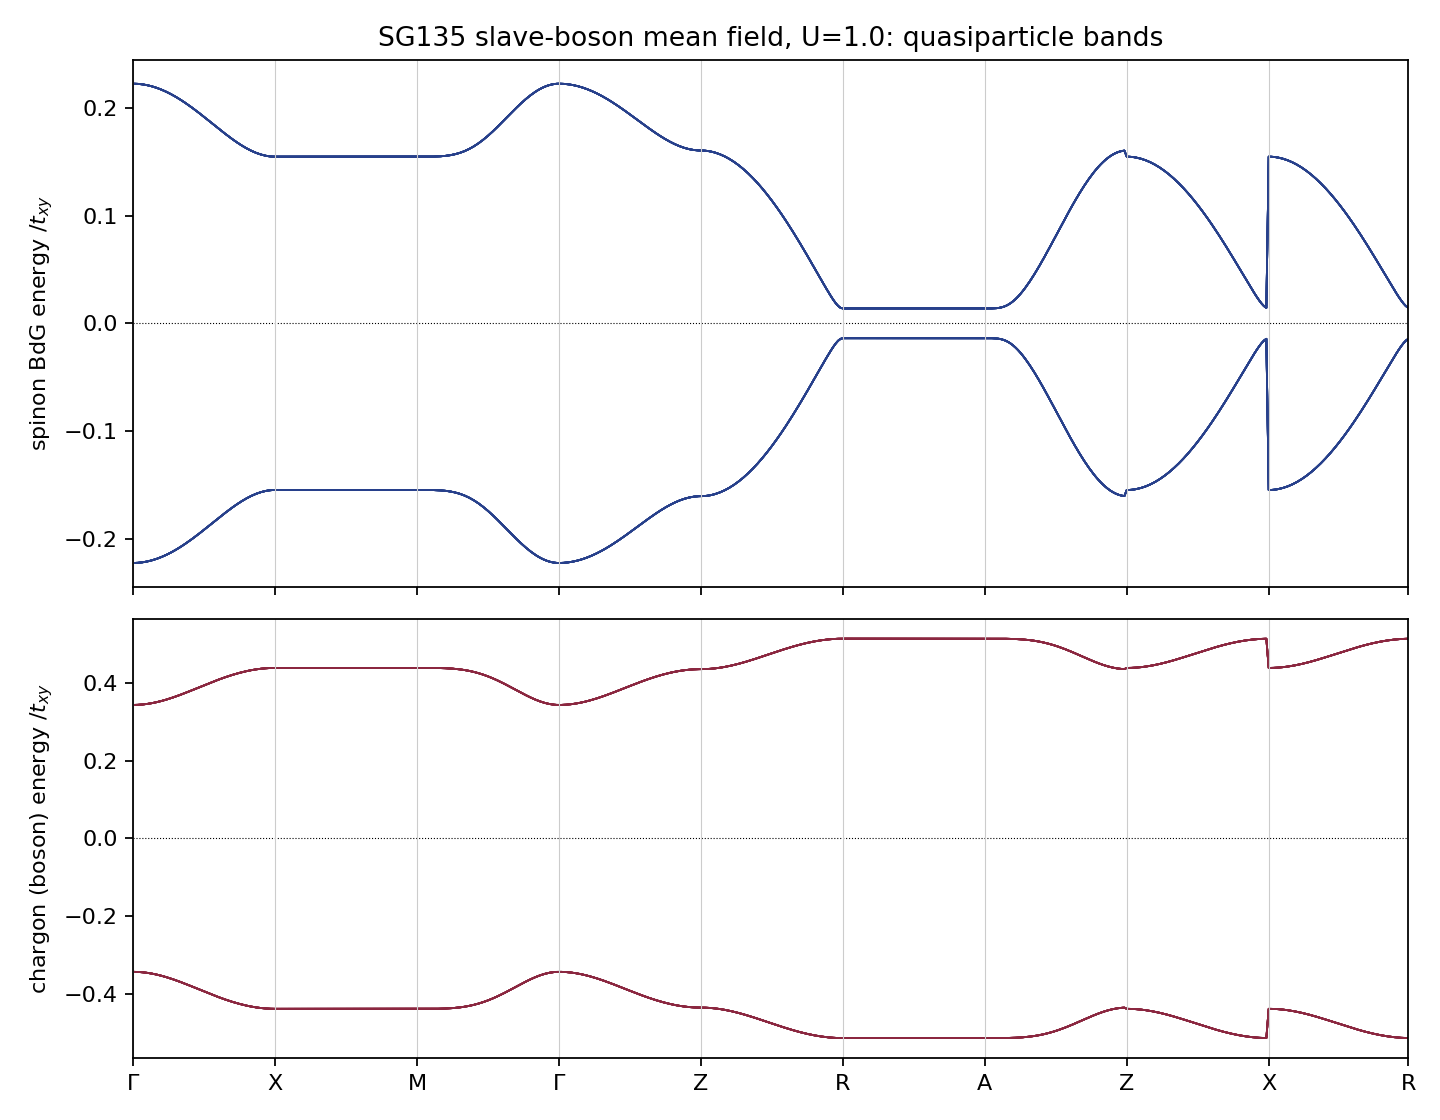
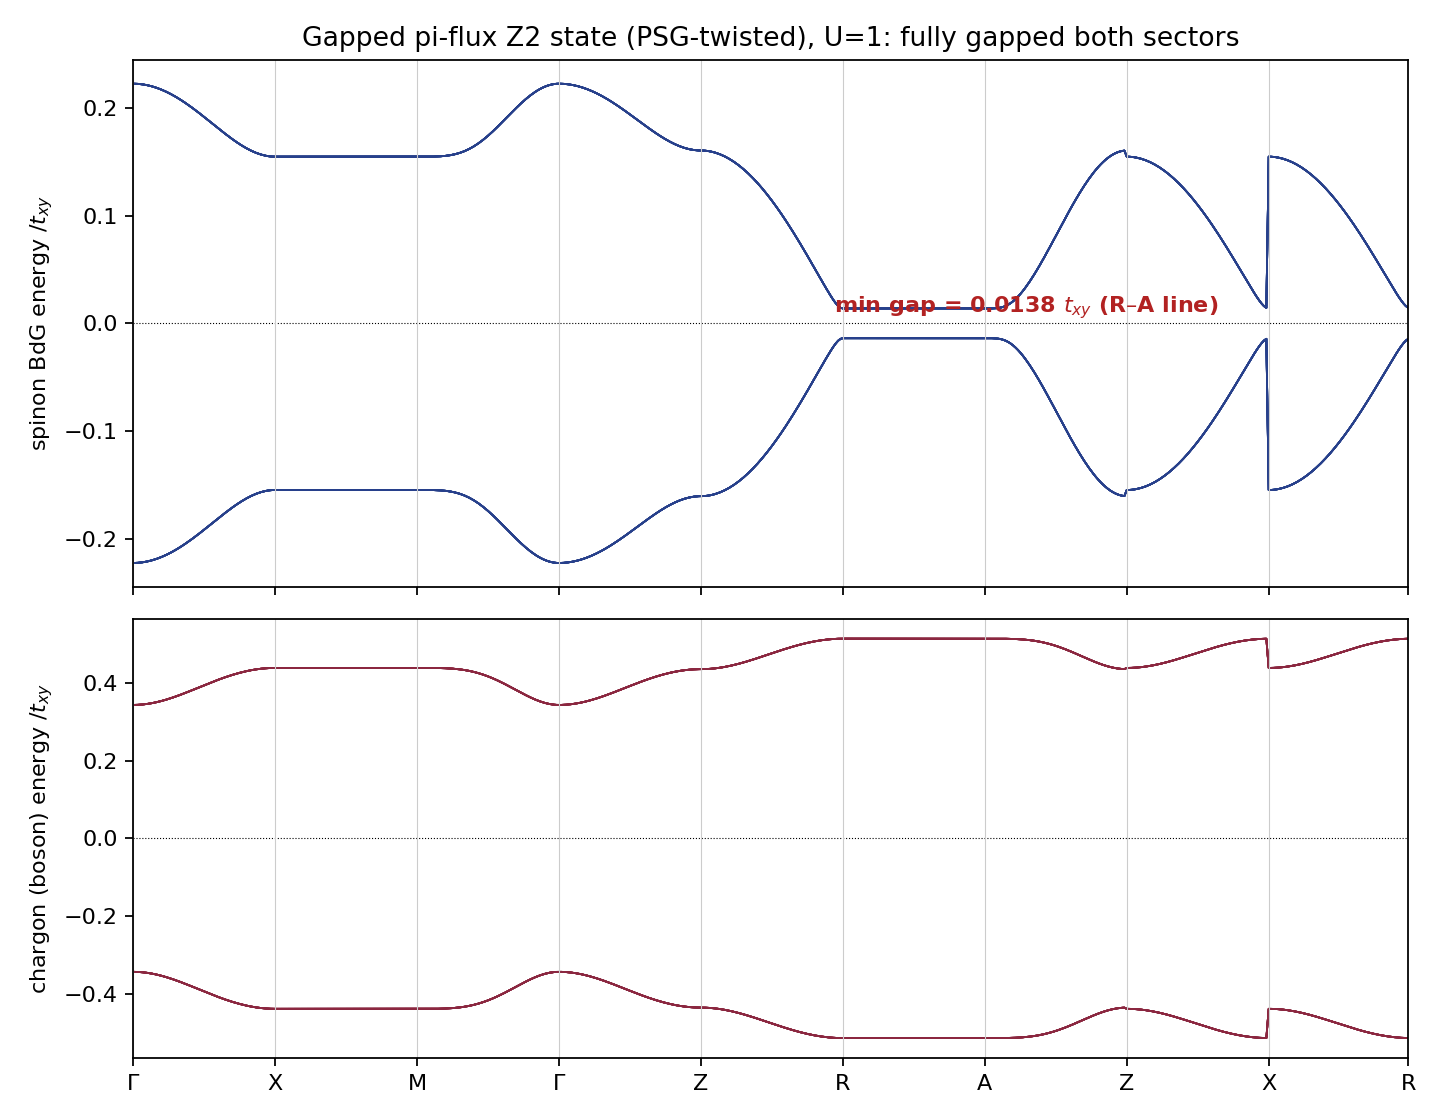
Annotated band figures, nk-convergence in claims, archived verification record

Changed region(s): [[0.2188, 0.0, 0.8438, 0.0625], [0.5625, 0.25, 0.8438, 0.2812]]

diff --git a/code/sg135/plot_bands.py b/code/sg135/plot_bands.py
@@ -11,6 +11,7 @@ ks, ticks, ef, eb, U = d["ks"], d["ticks"], d["ef"], d["eb"], float(d["U"])
 labels = ["$\\Gamma$", "X", "M", "$\\Gamma$", "Z", "R", "A", "Z", "X", "R", "M", "A"]
 xt = list(ticks[:-1]) + [len(ks) - 1]
 
+title = sys.argv[2] if len(sys.argv) > 2 else f"SG135 slave-boson mean field, U={U}: quasiparticle bands"
 fig, axes = plt.subplots(2, 1, figsize=(9, 7), sharex=True,
                          gridspec_kw={"height_ratios": [1.2, 1]})
 x = np.arange(len(ks))
@@ -18,7 +19,12 @@ for b in range(ef.shape[1]):
     axes[0].plot(x, ef[:, b], lw=0.8, color="#27408b")
 axes[0].axhline(0, color="k", lw=0.5, ls=":")
 axes[0].set_ylabel("spinon BdG energy $/t_{xy}$")
-axes[0].set_title(f"SG135 slave-boson mean field, U={U}: quasiparticle bands")
+axes[0].set_title(title)
+gmin = float(np.abs(ef).min())
+axes[0].annotate(f"min gap = {gmin:.4f} $t_{{xy}}$ (R–A line)" if gmin > 1e-3
+                 else f"GAPLESS: min gap = {gmin:.1e} (nodal plane $k_z=\\pi$ = Z–R–A)",
+                 xy=(0.55, 0.52), xycoords="axes fraction", fontsize=10,
+                 color="#b22222", fontweight="bold")
 
 if eb is not None and eb.size:
     for b in range(eb.shape[1]):

diff --git a/summary.md b/summary.md
@@ -46,7 +46,9 @@ could not solve.
 
 1. **Solved**: the SG135 slave-boson self-consistency equations (the June
    blocker) converge to residuals ~10⁻¹⁰ across U ∈ [0.4, 6] (grid nk = 12³,
-   cross-checked at 8³ and 14³; branch energies shift < 0.2%).
+   cross-checked at 8³, 14³, 16³; branch energies shift < 0.2% and the
+   gapped-vs-nodal margin at U = 1 *grows* under refinement:
+   0.0157 → 0.0169 → 0.0173 for nk = 8, 12, 16).
 2. **Group theory** (agent-assisted, `notes/theory/sg135_factorization.md`):
    the electron corep factorizes in exactly four ways at the 4a Wyckoff
    position; Z₂ gauge twists leave two invariant classes (chargon C₂z = ±1,
